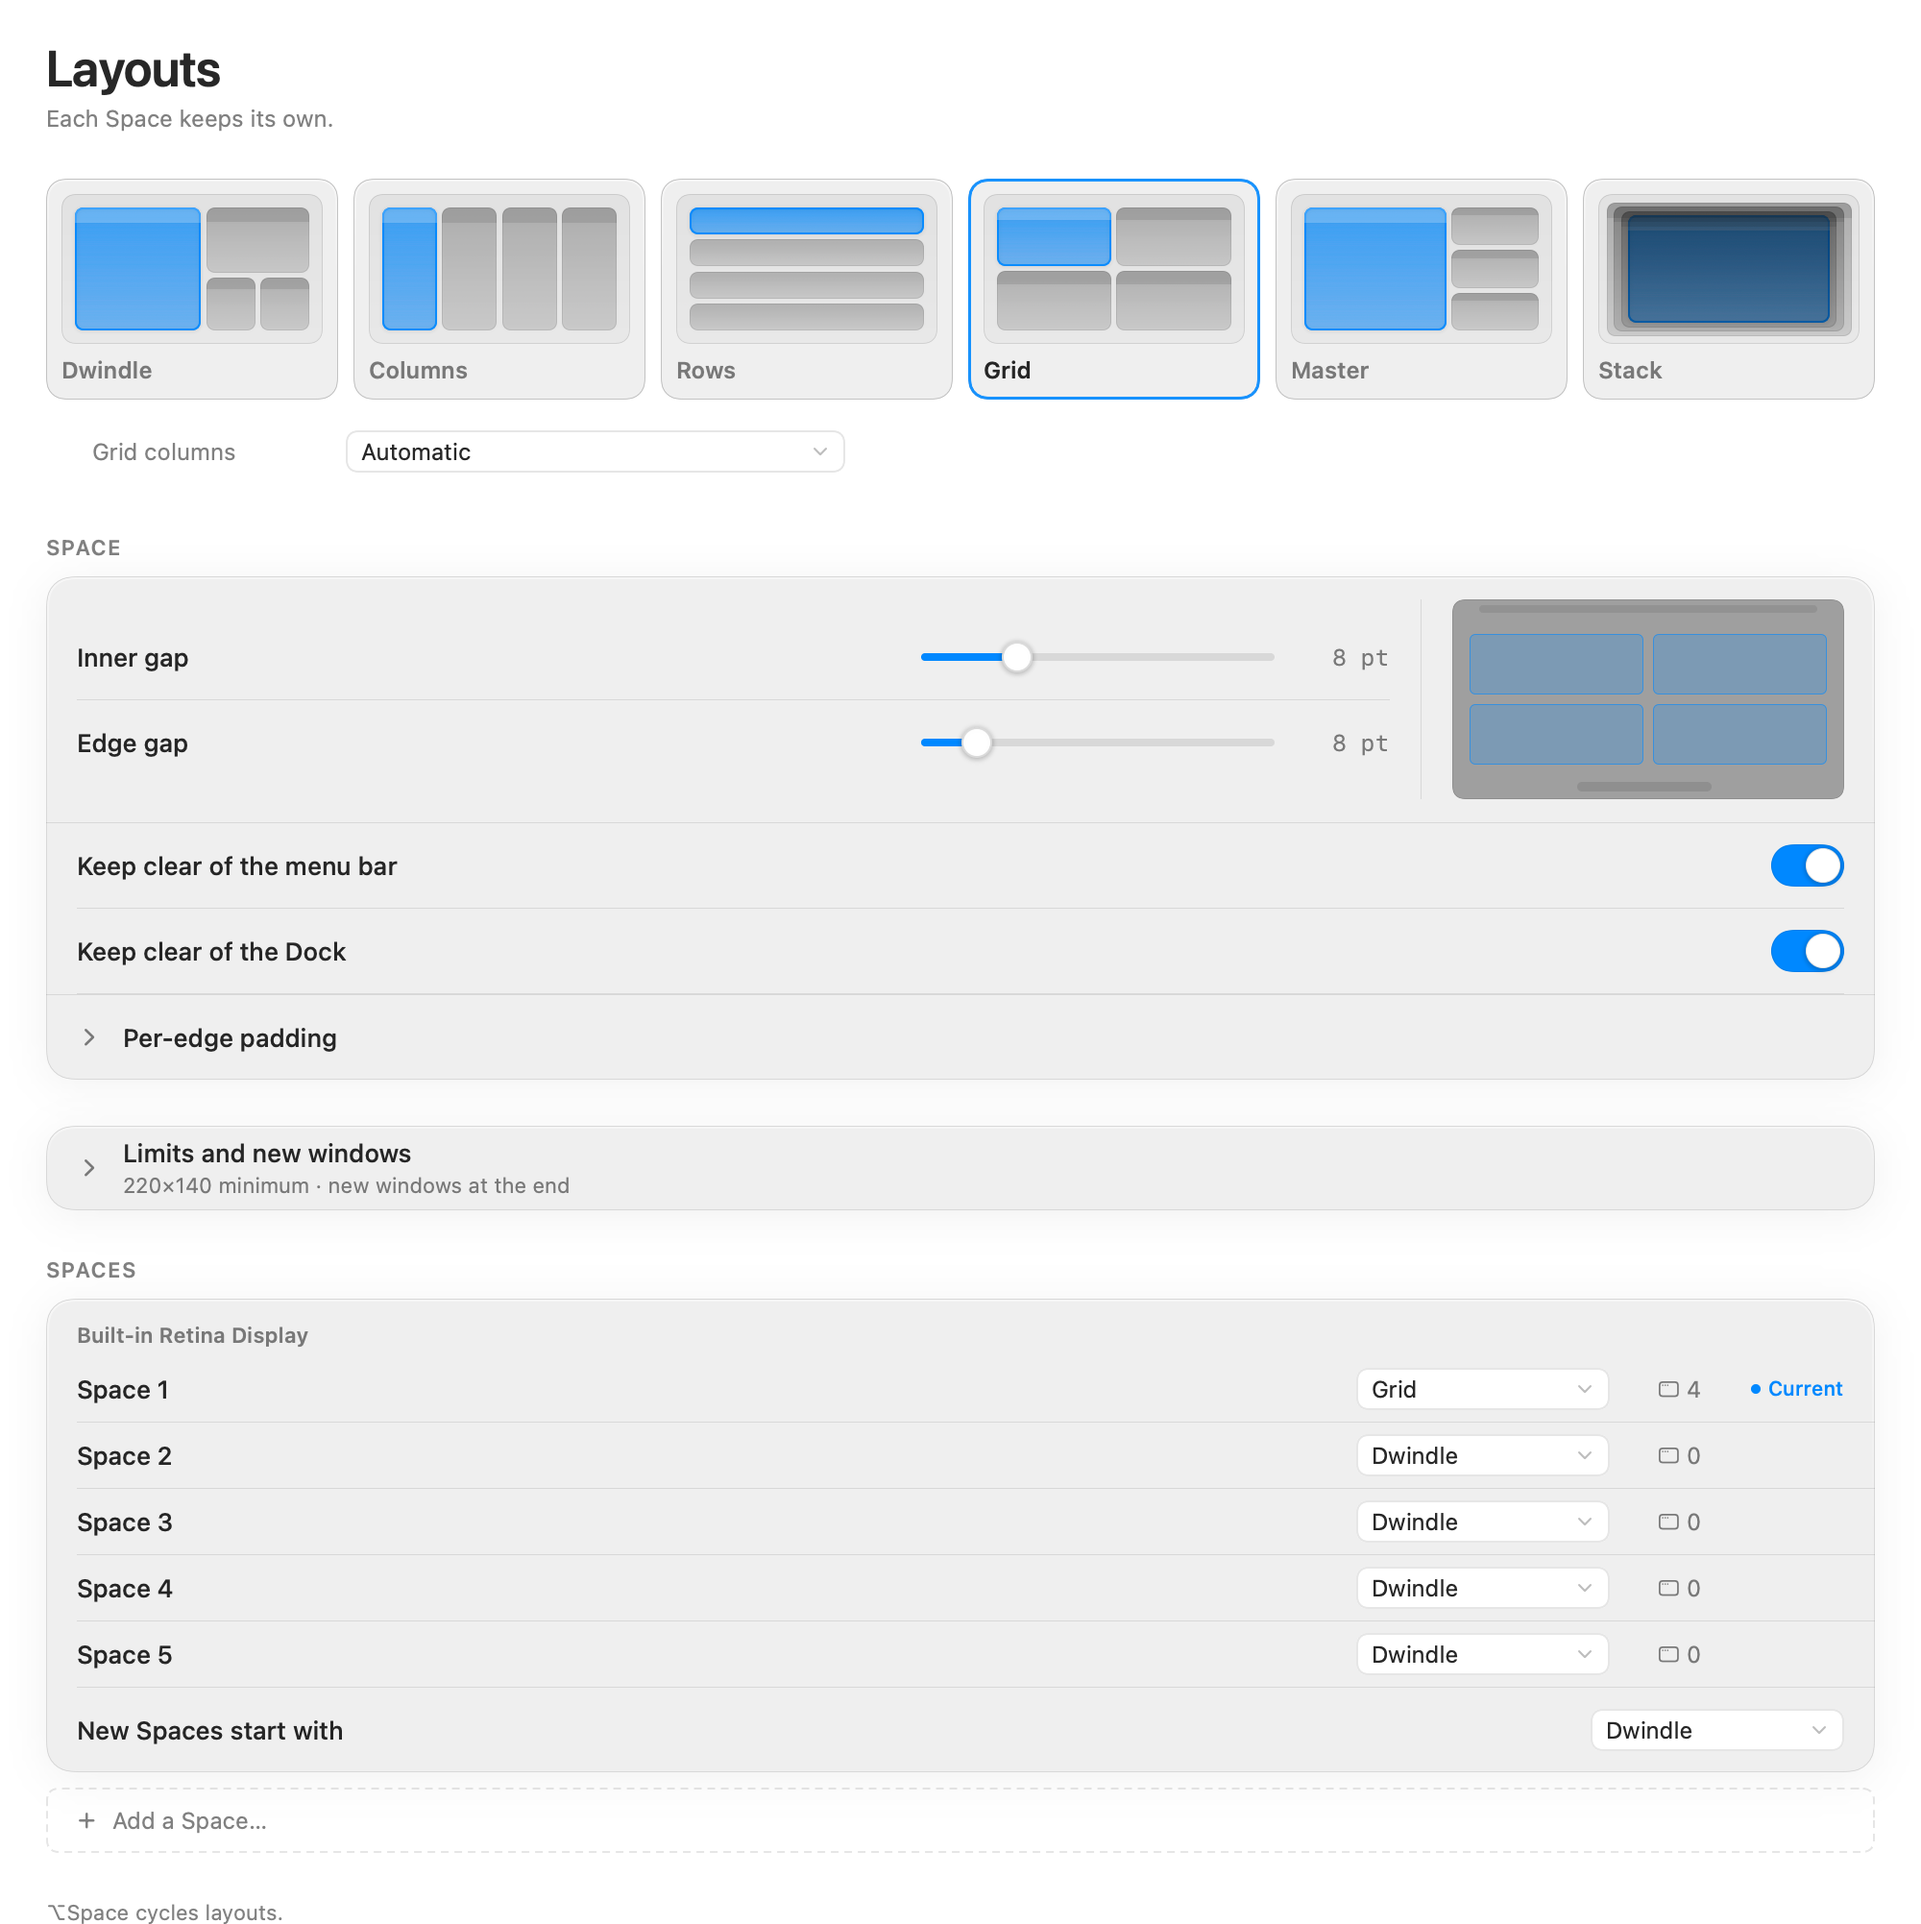
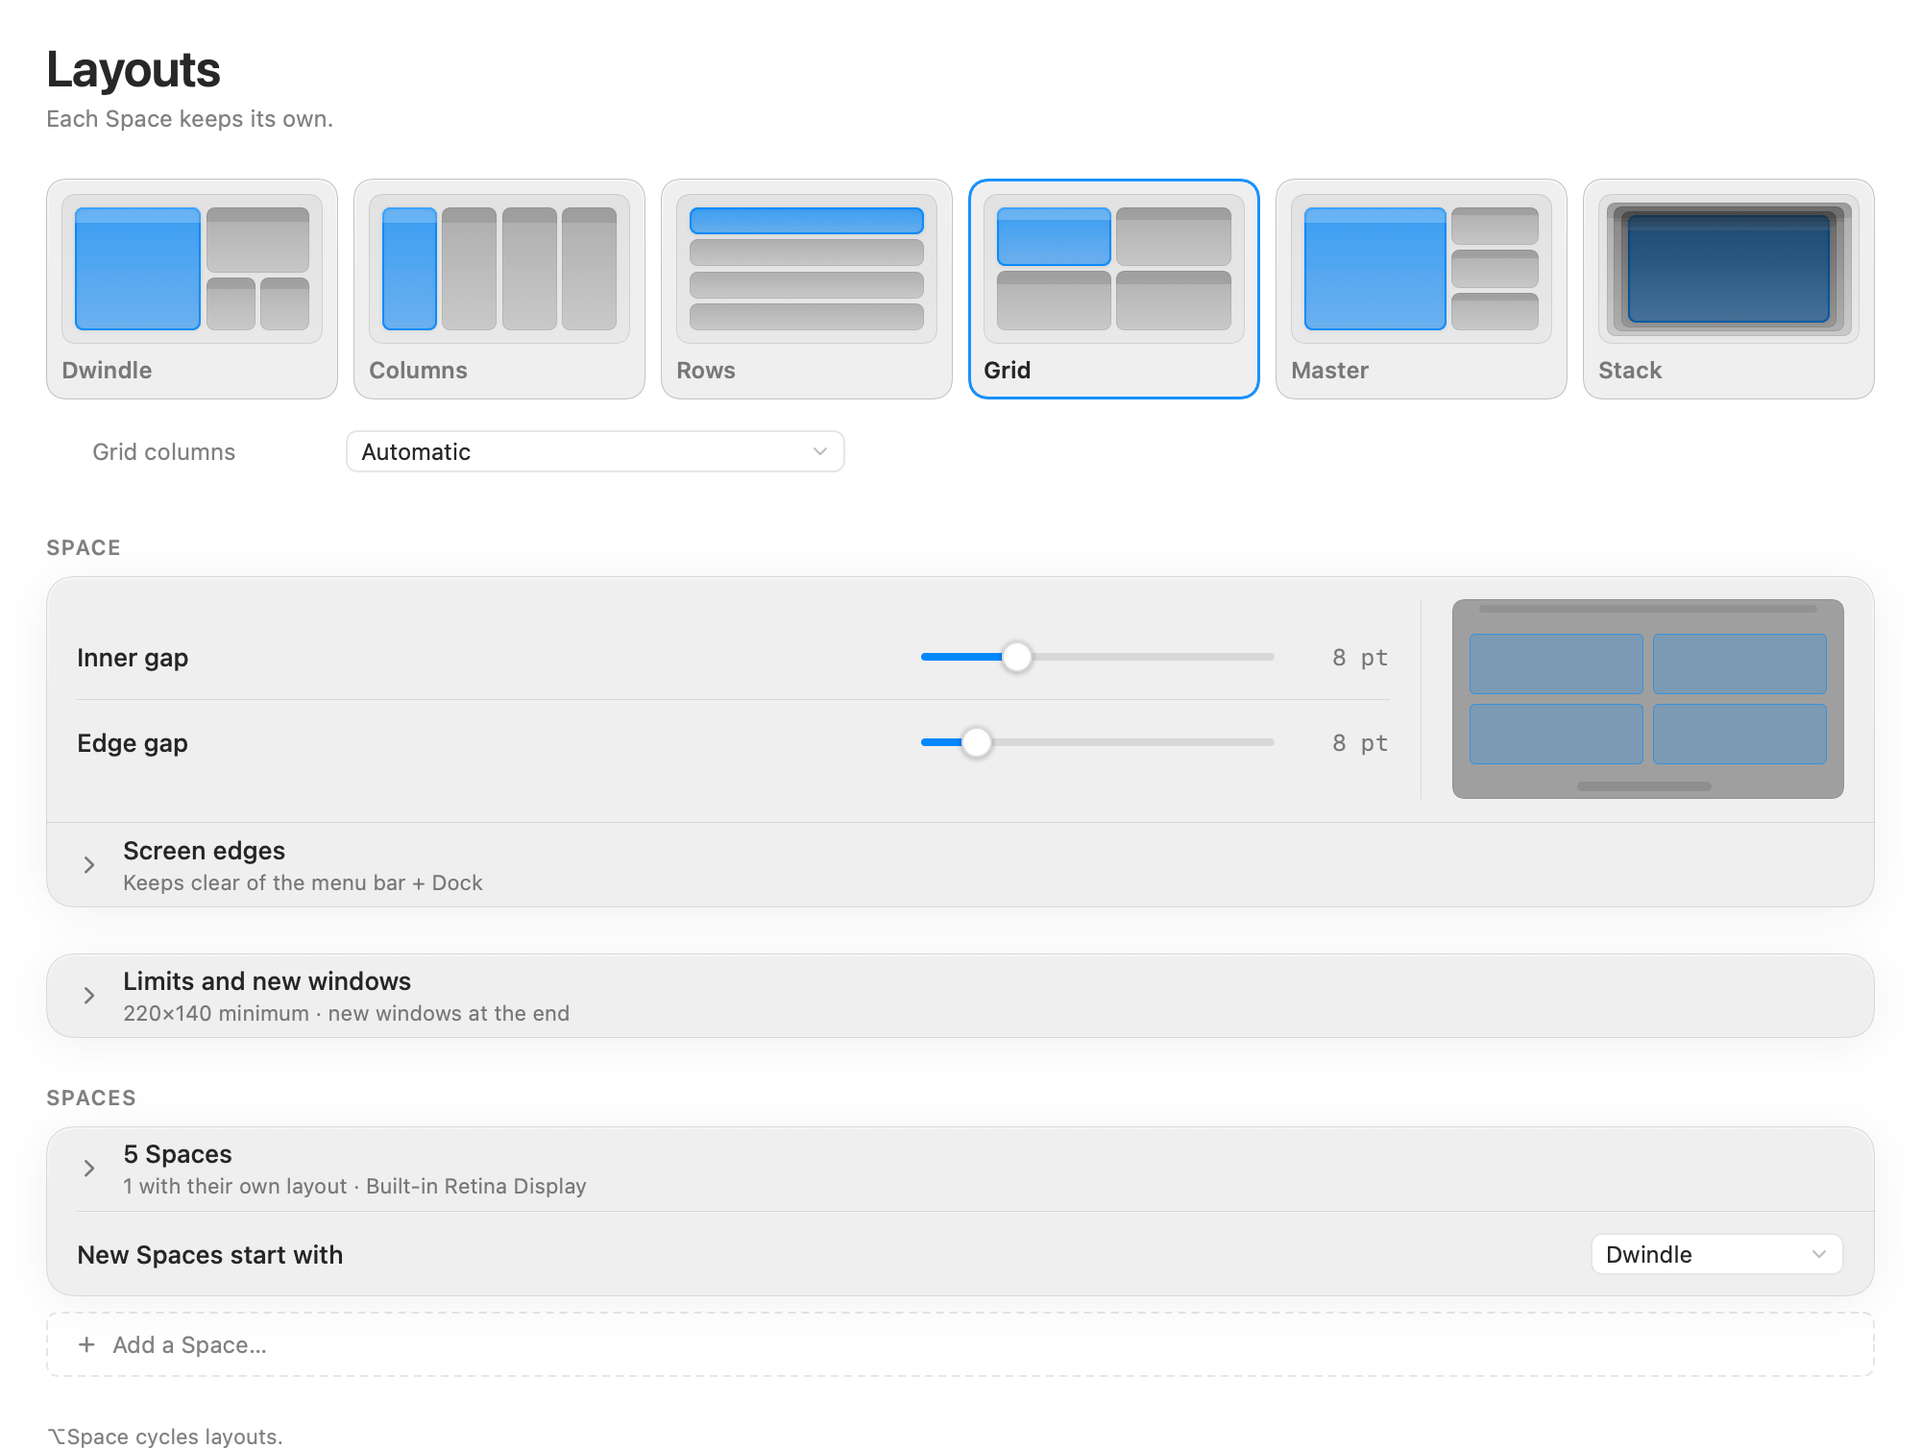
Tighten Layouts and Shortcuts: fold Space list and screen edges, collapse nine Space commands into two rows, single orphan-key caption

diff --git a/Sources/Lattice/UI/Settings/ShortcutsPane.swift b/Sources/Lattice/UI/Settings/ShortcutsPane.swift
@@ -263,6 +263,14 @@ struct ShortcutsPane: View {
                     }
                     .padding(.horizontal, 6)
                     .padding(.vertical, 4)
+
+                    if let count = currentSpaceCount, !orphanedKeys.isEmpty {
+                        Text("\(orphanedKeys.count) \(orphanedKeys.count == 1 ? "key points" : "keys point") past this display's \(count) Spaces")
+                            .font(.system(size: 10.5))
+                            .foregroundStyle(.tertiary)
+                            .padding(.horizontal, 8)
+                            .padding(.bottom, 6)
+                    }
                 }
             }
         }
@@ -320,16 +328,16 @@ struct ShortcutsPane: View {
             }
             .frame(height: 26)
 
-            if let count = currentSpaceCount, missing {
-                Text("Display has \(count) Spaces")
-                    .font(.system(size: 10))
-                    .foregroundStyle(.secondary)
-                    .padding(.leading, 2)
-                    .accessibilityLabel("Space \(entry.number) does not exist. This display has \(count) Spaces.")
-            }
         }
         .padding(.horizontal, 6)
         .padding(.vertical, 5)
+    }
+
+    /// Keys pointing at Spaces this display does not have. Reported once under the grid
+    /// rather than repeated under every affected row.
+    private var orphanedKeys: [String] {
+        guard let count = currentSpaceCount else { return [] }
+        return store.prefs.spaceKeys.filter { $0.value > count }.map(\.key)
     }
 
     /// How many user Spaces the display that owns the focused Space has. Fullscreen
@@ -376,7 +384,7 @@ struct ShortcutsPane: View {
                 .padding(.top, LatticeTheme.Spacing.lg)
                 .padding(.bottom, LatticeTheme.Spacing.xxs)
 
-                ForEach(section.commands) { command in
+                ForEach(section.commands.filter { !Self.isSpaceNumberCommand($0) }) { command in
                     shortcutRow(command)
                         .padding(.horizontal, LatticeTheme.gutter)
 
@@ -386,6 +394,21 @@ struct ShortcutsPane: View {
                     }
 
                     LatticeDivider(insetLeading: LatticeTheme.gutter)
+                }
+
+                if section.commands.contains(where: { $0.rawValue.hasPrefix("space") }) {
+                    spaceSummaryRow(
+                        title: "Go to Space",
+                        chords: "⌥ + Space key",
+                        detail: "\(store.prefs.spaceKeys.count) keys set above"
+                    )
+                }
+                if section.commands.contains(where: { $0.rawValue.hasPrefix("moveToSpace") }) {
+                    spaceSummaryRow(
+                        title: "Send to Space",
+                        chords: "⇧⌥ + Space key",
+                        detail: "Moves the focused window"
+                    )
                 }
             }
         }
@@ -410,6 +433,36 @@ struct ShortcutsPane: View {
         .safeAreaInset(edge: .bottom, spacing: 0) {
             cheatSheetHint
         }
+    }
+
+    private static func isSpaceNumberCommand(_ command: CommandID) -> Bool {
+        command.rawValue.hasPrefix("space") || command.rawValue.hasPrefix("moveToSpace")
+    }
+
+    /// Nine commands that all do the same thing with a different number do not deserve nine
+    /// rows: the mapping lives in the Space keys card above, and this states the pattern.
+    private func spaceSummaryRow(title: String, chords: String, detail: String) -> some View {
+        HStack(spacing: LatticeTheme.Spacing.sm) {
+            Image(systemName: "square.on.square")
+                .font(.system(size: 12))
+                .foregroundStyle(.secondary)
+                .frame(width: 18)
+            VStack(alignment: .leading, spacing: 1) {
+                Text(title)
+                    .font(.system(size: 13))
+                Text(detail)
+                    .font(.system(size: 10.5))
+                    .foregroundStyle(.tertiary)
+            }
+            Spacer(minLength: LatticeTheme.Spacing.xs)
+            Text(chords)
+                .font(.system(size: 11.5, design: .monospaced))
+                .foregroundStyle(.secondary)
+        }
+        .frame(height: 34)
+        .padding(.horizontal, LatticeTheme.gutter)
+        .accessibilityElement(children: .combine)
+        .accessibilityLabel("\(title): \(chords). \(detail).")
     }
 
     private func shortcutRow(_ command: CommandID) -> some View {

diff --git a/Sources/Lattice/UI/Layouts/LayoutSpaceSection.swift b/Sources/Lattice/UI/Layouts/LayoutSpaceSection.swift
@@ -62,24 +62,8 @@ struct LayoutSpaceSection: View {
 
             LatticeDivider()
 
-            LayoutsRow("Keep clear of the menu bar") {
-                LayoutsToggle(
-                    isOn: prefs.binding(\.respectMenuBar),
-                    label: "Keep clear of the menu bar"
-                )
-            }
-
-            LayoutsRow("Keep clear of the Dock") {
-                LayoutsToggle(
-                    isOn: prefs.binding(\.respectDock),
-                    label: "Keep clear of the Dock"
-                )
-            }
-
-            LatticeDivider()
-
             LayoutsDisclosureRow(
-                title: "Per-edge padding",
+                title: "Screen edges",
                 subtitle: edgeSummary,
                 isExpanded: showsEdges,
                 showsDivider: showsEdges
@@ -88,6 +72,20 @@ struct LayoutSpaceSection: View {
             }
 
             if showsEdges {
+                LayoutsRow("Keep clear of the menu bar") {
+                    LayoutsToggle(
+                        isOn: prefs.binding(\.respectMenuBar),
+                        label: "Keep clear of the menu bar"
+                    )
+                }
+
+                LayoutsRow("Keep clear of the Dock") {
+                    LayoutsToggle(
+                        isOn: prefs.binding(\.respectDock),
+                        label: "Keep clear of the Dock"
+                    )
+                }
+
                 LayoutsRow("Top") {
                     LayoutsSlider(
                         value: point(\.edges.top),
@@ -137,7 +135,12 @@ struct LayoutSpaceSection: View {
     /// Only shown when something is set, so the row carries information rather than a promise.
     private var edgeSummary: String? {
         let edges = prefs.prefs.edges
-        guard edges != Margin() else { return nil }
+        if edges == Margin() {
+            let menu = prefs.prefs.respectMenuBar ? "menu bar" : nil
+            let dock = prefs.prefs.respectDock ? "Dock" : nil
+            let clear = [menu, dock].compactMap { $0 }.joined(separator: " + ")
+            return clear.isEmpty ? "Nothing kept clear" : "Keeps clear of the \(clear)"
+        }
         return "Top \(Int(edges.top)) · Leading \(Int(edges.leading)) · Bottom \(Int(edges.bottom)) · Trailing \(Int(edges.trailing)) pt"
     }
 

diff --git a/Sources/Lattice/UI/Layouts/LayoutSpacesSection.swift b/Sources/Lattice/UI/Layouts/LayoutSpacesSection.swift
@@ -9,17 +9,33 @@ struct LayoutSpacesSection: View {
     @ObservedObject var model: AppModel
     @ObservedObject var prefs: LayoutsPreferences
 
+    /// The per-Space rows are a list you rarely edit, so they fold away behind one row that
+    /// still reports how many Spaces exist and how many keep their own layout.
+    @State private var expanded = false
+
     var body: some View {
         LayoutsSection("Spaces") {
             if groups.allSatisfy({ $0.rows.isEmpty }) {
                 noSpacesRow
             } else {
-                ForEach(groups) { group in
-                    groupHeader(group.name)
+                SettingsDisclosureRow(
+                    title: summaryTitle,
+                    subtitle: expanded ? nil : summarySubtitle,
+                    isExpanded: expanded
+                ) {
+                    withAnimation(LatticeTheme.animation) { expanded.toggle() }
+                }
 
-                    ForEach(group.rows) { row in
-                        spaceRow(row)
-                        LatticeDivider(insetLeading: LatticeTheme.Spacing.md)
+                if expanded {
+                    ForEach(groups) { group in
+                        if groups.count > 1 {
+                            groupHeader(group.name)
+                        }
+
+                        ForEach(group.rows) { row in
+                            spaceRow(row)
+                            LatticeDivider(insetLeading: LatticeTheme.Spacing.md)
+                        }
                     }
                 }
             }
@@ -33,6 +49,22 @@ struct LayoutSpacesSection: View {
         } footer: {
             addSpaceRow
         }
+    }
+
+    // MARK: - Summary
+
+    private var allRows: [SpaceRow] { groups.flatMap(\.rows) }
+
+    private var summaryTitle: String {
+        let count = allRows.count
+        return "\(count) \(count == 1 ? "Space" : "Spaces")"
+    }
+
+    private var summarySubtitle: String {
+        let overrides = allRows.filter { prefs.prefs.hasOwnLayout($0.space) }.count
+        let base = overrides == 0 ? "All use the default layout" : "\(overrides) with their own layout"
+        if groups.count > 1 { return "\(base) · \(groups.count) displays" }
+        return base + " · " + (groups.first?.name ?? "")
     }
 
     // MARK: - Rows

diff --git a/Sources/Lattice/UI/Overview.swift b/Sources/Lattice/UI/Overview.swift
@@ -182,8 +182,7 @@ struct Overview: View {
                     onDontTile: { dontTileApp($0) },
                     onSend: { window, space in send(window, to: space, on: display.id) }
                 )
-                .frame(height: 380)
-                .frame(maxWidth: .infinity)
+                .frame(maxWidth: .infinity, minHeight: 380, maxHeight: 380)
                 .padding(.horizontal, LatticeTheme.Spacing.sm)
                 .padding(.top, entry == nil ? LatticeTheme.Spacing.sm : 0)
                 .padding(.bottom, LatticeTheme.Spacing.sm)
@@ -196,7 +195,7 @@ struct Overview: View {
                 }
             }
         }
-        .frame(maxWidth: .infinity)
+        .frame(maxWidth: .infinity, alignment: .leading)
         .accessibilityElement(children: .contain)
     }
 
